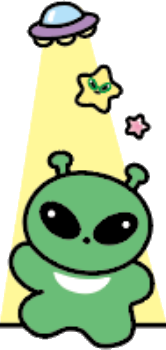
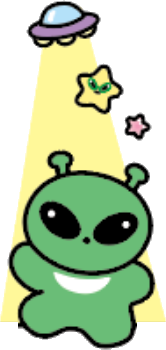
로그인: 상어 새 그림으로 바꿔 오른쪽 끝에 붙이기, 외계인 빛 끝 굵은 선 지우기, 탭 아이콘 바꾸기
Claude-Session: https://claude.ai/code/session_01FJjmZQXJu8nSrnZyJa9iVj

Changed region(s): [[0.8133, 0.9143, 1.0, 0.9429], [0.0, 0.9143, 0.1205, 0.9429]]

diff --git a/index.html b/index.html
@@ -4,12 +4,12 @@
 <meta charset="utf-8">
 <meta name="viewport" content="width=device-width, initial-scale=1">
 <title>Global POG</title>
-<link rel="icon" type="image/png" href="img/icon.png?v=1">
-<link rel="apple-touch-icon" href="img/icon-180.png?v=1">
+<link rel="icon" type="image/png" href="img/icon.png?v=2">
+<link rel="apple-touch-icon" href="img/icon-180.png?v=2">
 <link rel="preconnect" href="https://fonts.googleapis.com">
 <link rel="preconnect" href="https://fonts.gstatic.com" crossorigin>
 <link href="https://fonts.googleapis.com/css2?family=Noto+Sans+KR:wght@400;500;700&display=swap" rel="stylesheet">
-<link rel="stylesheet" href="style.css?v=20261103a">
+<link rel="stylesheet" href="style.css?v=20261103b">
 </head>
 <body>
 
@@ -40,7 +40,7 @@
     <img src="img/login/c13.png" alt="" style="--h:273;--b:-23;--d:0.01s" onerror="this.remove()">
     <img src="img/login/c14.png" alt="" style="--h:226;--b:-22;--d:0.38s" onerror="this.remove()">
     <img src="img/login/c15.png" alt="" style="--h:246;--b:84;--d:0.75s" onerror="this.remove()">
-    <img src="img/login/c16.png" alt="" style="--h:396;--b:-41;--d:1.12s" onerror="this.remove()">
+    <img class="edge" src="img/login/c16.png" alt="" style="--h:327;--b:-37;--d:1.52s" onerror="this.remove()">
   </div>
 </div>
 
@@ -431,6 +431,6 @@
 <div id="toast"></div>
 
 <!-- 파일을 고치면 ?v= 숫자도 바꿀 것 (브라우저가 예전 파일을 쓰지 않도록) -->
-<script type="module" src="app.js?v=20261103a"></script>
+<script type="module" src="app.js?v=20261103b"></script>
 </body>
 </html>

diff --git a/style.css b/style.css
@@ -583,6 +583,7 @@ body:not([data-level]) #app nav, body[data-level=""] #app nav, body[data-level="
 .login-chars::before { content: ''; position: absolute; left: 0; right: 0; bottom: 0; z-index: -1; height: calc(47 * var(--s) * 1px); border-top: calc(3 * var(--s) * 1px) solid #1f1f1f; box-sizing: border-box; background: repeating-linear-gradient(to bottom, #f2f2f2 0, #f2f2f2 calc(5.5 * var(--s) * 1px), #dcdcdc calc(5.5 * var(--s) * 1px), #dcdcdc calc(11 * var(--s) * 1px)); box-shadow: inset 0 calc(-3 * var(--s) * 1px) 0 #1f1f1f, 0 -2px 8px rgba(0,0,0,.12); }
 .login-chars:not(:has(img)) { display: none; }
 .login-chars img { height: calc(var(--h) * var(--s) * 1px); width: auto; flex: none; display: block; margin-bottom: calc((var(--b, 0) + 47) * var(--s) * 1px); pointer-events: auto; transform-origin: 50% 100%; animation: char-bob 2.4s ease-in-out var(--d, 0s) infinite; cursor: pointer; }
+.login-chars img.edge { position: absolute; right: 0; bottom: 0; }  /* 상어: 몸이 잘린 그림이라 화면 오른쪽 끝에 붙임 */
 .login-chars img:hover { animation: char-jump .5s ease-out; }
 @keyframes char-bob { 50% { transform: translateY(-5px); } }
 @keyframes char-jump { 30% { transform: translateY(-22px) rotate(-4deg); } 60% { transform: translateY(0) scaleY(.92); } }
